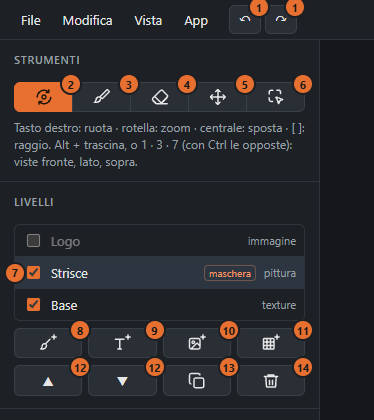
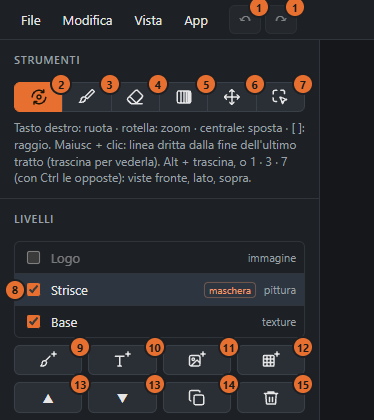
Docs for 0.6.0

diff --git a/CHANGELOG.it.md b/CHANGELOG.it.md
@@ -1,5 +1,17 @@
 # Novità
 
+## [0.6.0] - 2026-10-17
+
+Linee dritte e sfumature.
+
+### Novità
+- Strumento **Sfumatura** (G): trascina sull'auto da dove comincia a dove finisce, e il livello di pittura
+  selezionato si riempie dal colore **Da** al colore **A**, o **Fino a trasparente**. **Lineare** o **Radiale**, con
+  la sua **Opacità** e la **Simmetria sinistra/destra**; mentre trascini la vedi sull'auto. Sulla maschera del
+  livello, fa sfumare via il livello.
+- Linee dritte: col pennello o la gomma, **Maiusc + clic** traccia una linea dritta dalla fine dell'ultimo tratto;
+  tieni premuto per vedere la linea mentre la sposti.
+
 ## [0.5.1] - 2026-10-17
 
 Il banner sui vetri della Lancia Delta HF Integrale Evo.

diff --git a/CHANGELOG.md b/CHANGELOG.md
@@ -1,5 +1,17 @@
 # Changelog
 
+## [0.6.0] - 2026-10-17
+
+Straight lines and gradients.
+
+### New
+- **Gradient** tool (G): drag on the car from where it starts to where it ends, and the selected paint layer fills
+  from the **From** colour to the **To** colour, or **To transparent**. **Linear** or **Radial**, with its own
+  **Opacity** and **Left/right symmetry**; it shows on the car while you drag. Painting the layer's mask, it makes
+  the layer fade out.
+- Straight lines: with the brush or the eraser, **Shift + click** draws a straight line from the end of the last
+  stroke; hold the button to see the line while you move it.
+
 ## [0.5.1] - 2026-10-17
 
 The window banner of the Lancia Delta HF Integrale Evo.
